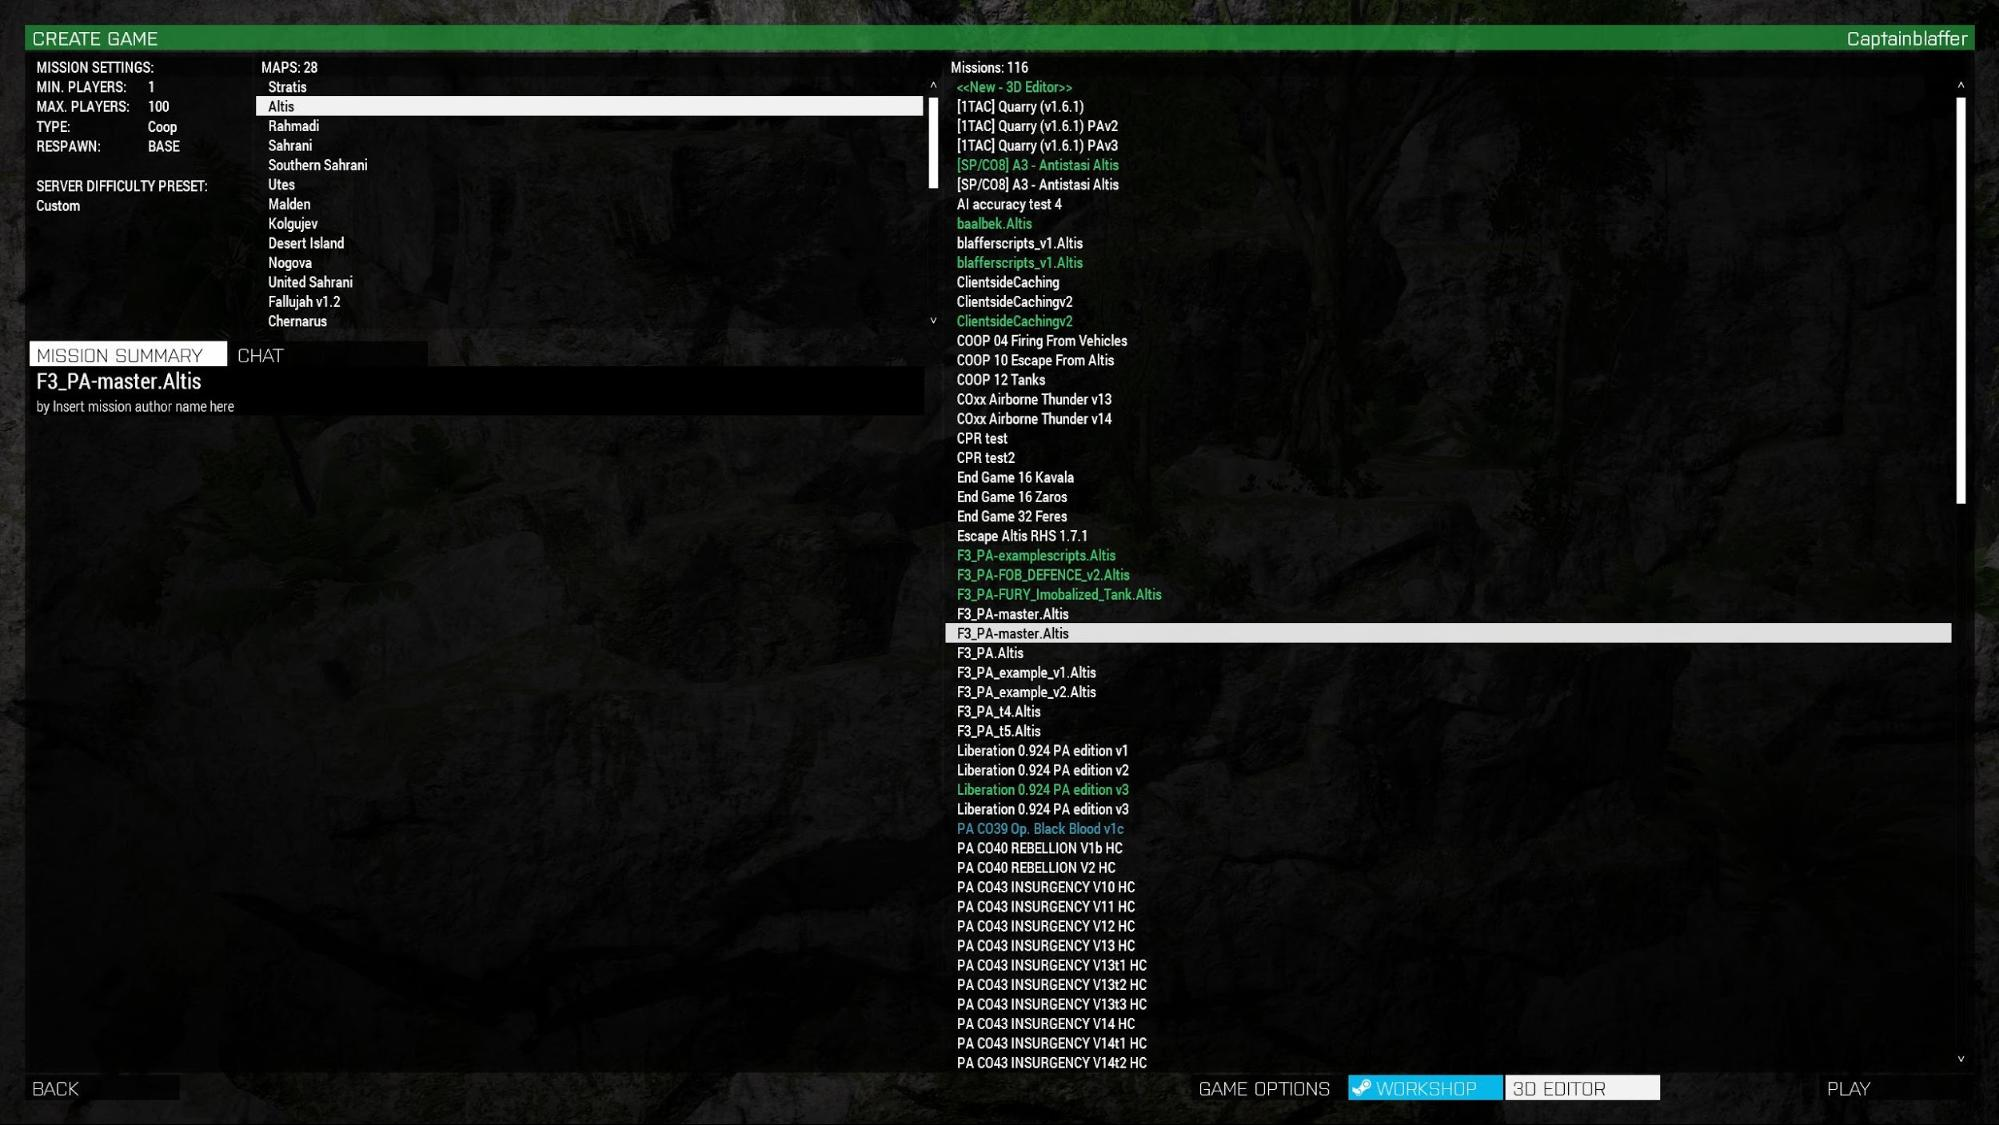
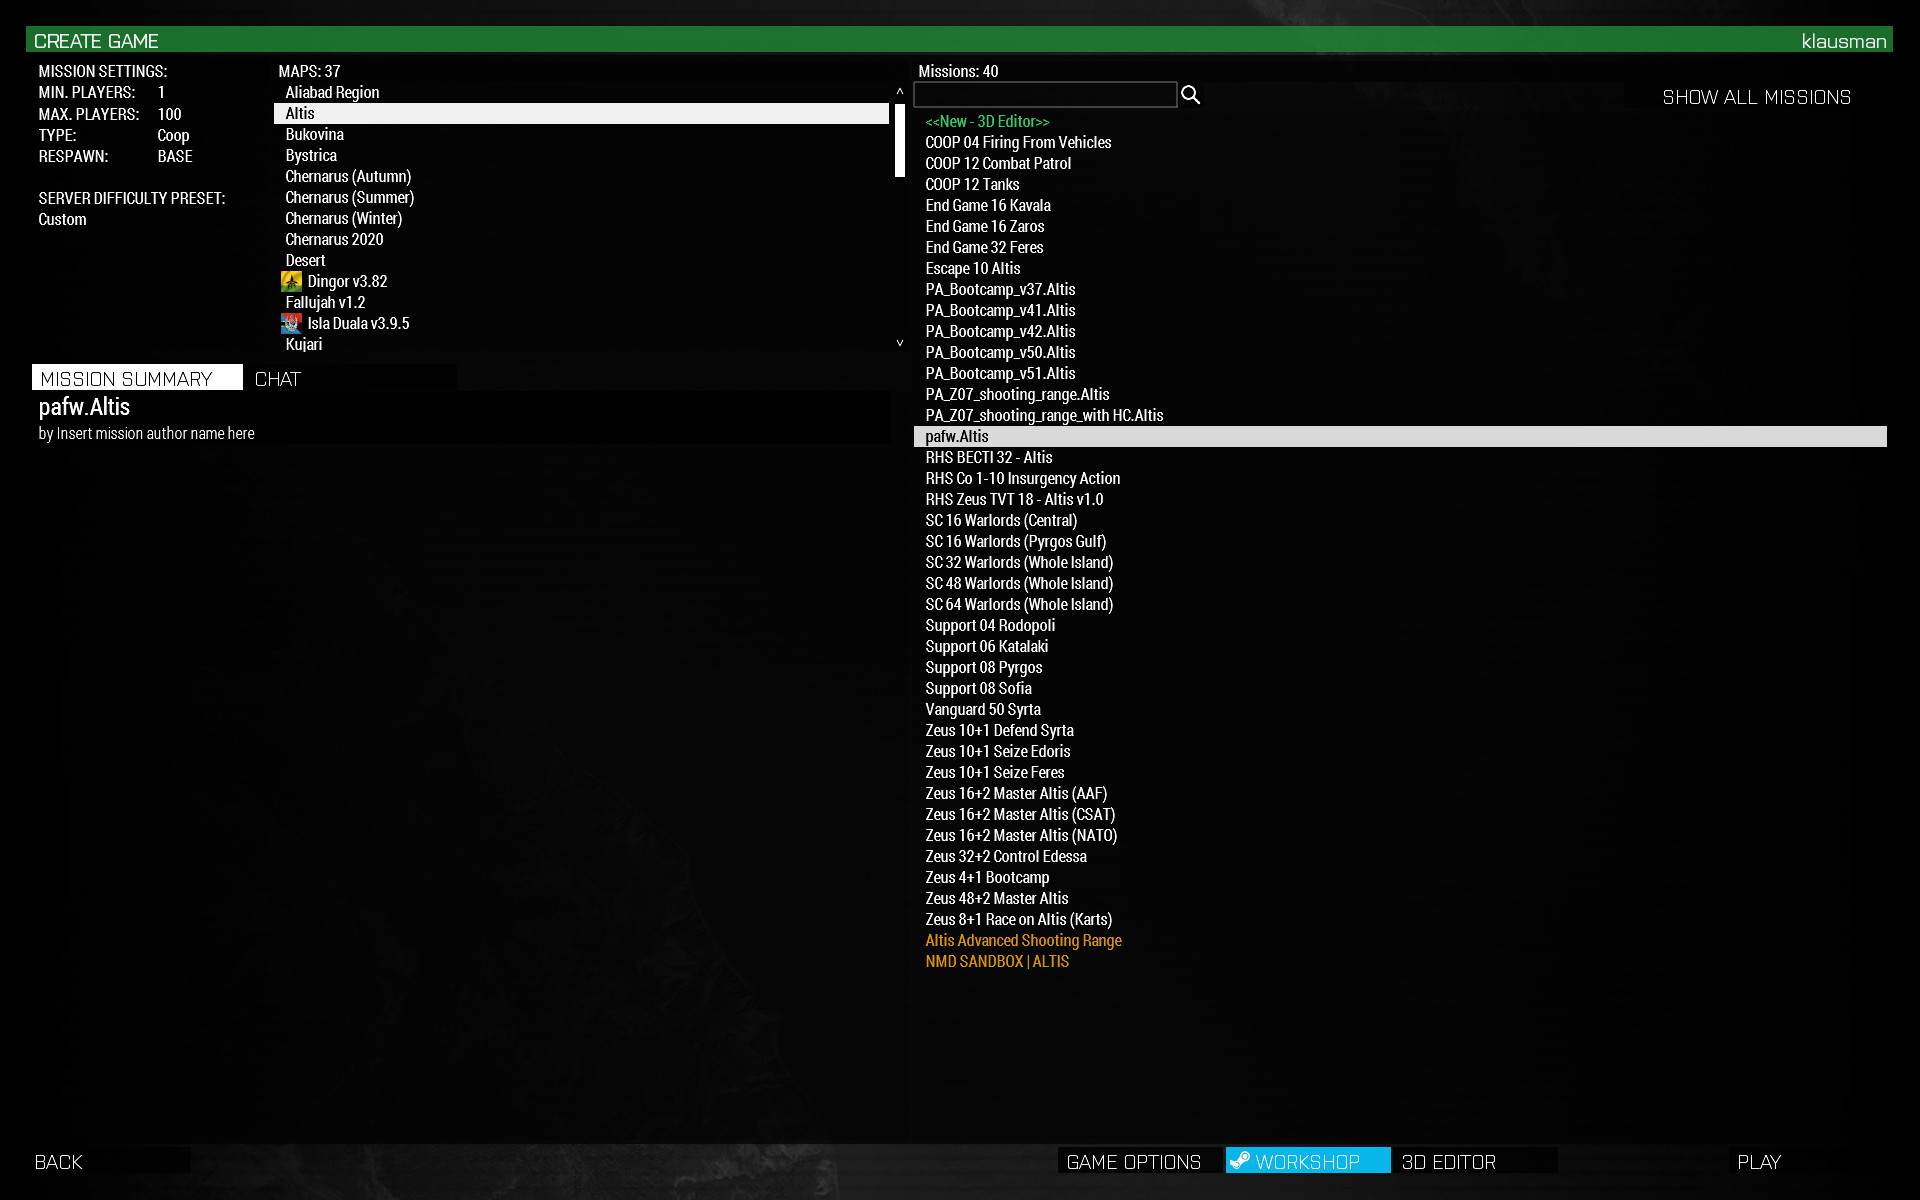
Updates!

diff --git a/content/mission_making/guide/index.md b/content/mission_making/guide/index.md
@@ -18,13 +18,14 @@ Below I will guide you step by step how to make your first mission.
 
 ## Download, unpack and set up the Example Mission and Extra Scripts
 
-1. Download the [F3\_PA framework](https://github.com/captainblaffer/F3_PA)
-   (https://github.com/captainblaffer/F3\_PA)<br/><img src="image7.png"/>
+1. Download the [PA framework](https://github.com/klausman/pafw/releases)
+   (https://github.com/klausman/pafw/releases)<br/><img src="image7.png"/>
 2. Place downloaded folders in A3 missions folder. </p> Open A3 missions
    folder in explorer. The file path will look something like this:
-   `C:\Users\klausman\Documents\Arma 3\oldmissions`<br/>
+   `C:\Users\klausman\Documents\Arma 3\mpmissions`<br/>
    *Note:* If the folder MPMissions does not exist, create it.<br/>
-   Unzip and place the downloaded folders in the MPMissions folder:
+   The ZIP will contain a folder named `pafw-0.0.1.zip` or similar. Unpack
+   it to the `mpmissions` folder and rename it to `pafw.Altis`:
    <img src="image6.png"/>
 3. Open the A3 mission editor.<br/>
    Start A3 with all of PA’s addons enabled. Then navigate yourself to the
@@ -32,14 +33,10 @@ Below I will guide you step by step how to make your first mission.
    LAN:<br/>
    <img src="image2.png"/><br/>
    In the next menu, find the framework missions by selecting Altis as map,
-   and then selecting *F3-PA-Master.Altis* in green color. Now press the ‘3D
+   and then selecting *pafw.Altis* in green color. Now press the ‘3D
    Editor’ button on bottom right. You will now load the framework mission
    into the A3 Editor.<br/>
    <img src="image5.jpg"/><br/>
-   Note: If you want to read up details on the F3 framework, here is our copy 
-   of their (now defunct) Official wiki:<br/>
-   But note the `F3_PA` framework is different from the official framework,
-   some features will function differently from how described on that wiki.<br/>
 
 ## Defining mission rules
 
@@ -50,7 +47,7 @@ map (Altis, Stratis etc.) you prefer.
 
 To create a new mission:
 
-1. While `F3_PA-master.Altis` mission is loaded in the editor, drag your mouse
+1. While `pafw.Altis` mission is loaded in the editor, drag your mouse
    over all the objects placed down in the mission so you select them all at
    the same time. It should include modules, markers, units and vehicles.
 2. Press CTRL+C on keyboard to copy.
@@ -59,23 +56,23 @@ To create a new mission:
 4. In your new, empty mission press CTRL+V to paste the previously copied
    objects. Note the objects may be in some weird spot in the corner of the
    map.
-5. In windows explorer, open the folder `F3\_PA-master.Altis.` Select all files
+5. In windows explorer, open the folder `pafw.Altis.` Select all files
    in that folder except for `mission.sqm`, and copy the files (CTRL+C)
 6. In windows explorer open the folder of your new mission, found somewhere in
    `\Documents\Arma 3\mpmissions`
 
 Paste the copied files (CTRL+V). Remember do not overwrite `mission.sqm`.
 
-You have now created a new mission which contains all the F3\_PA features,
+You have now created a new mission which contains all the PAFW features,
 settings, and pre-placed assets. Let’s continue to work on this mission from
-now on, so you can keep the F3\_PA-master.Altis mission unchanged and ready to
+now on, so you can keep the pafw.Altis mission unchanged and ready to
 be used for future missions.
 
 ## Mission rules & info are defined in several places
 
 1. Modules placed in the 3d editor
-2. `Init.sqf` (found in `\Documents\\Arma 3 \MPMissions\missionname.mapname`)
-3. `Description.ext` (same folder)
+2. `init.sqf` (found in `\Documents\Arma 3 \MPMissions\missionname.mapname`)
+3. `description.ext` (same folder)
 4. Slotting Screen Parameters
 5. In the editor: Settings > Addon Options
 
@@ -94,14 +91,14 @@ emit warnings about their deprecation. When in doubt, ask in
 
 ### `init.sqf`
 
-In `init.sqf` you can enable or disable certain F3 features, or tweak the
+In `init.sqf` you can enable or disable certain PAFW features, or tweak the
 values. You open this file with any text editor. I recommend
 [notepad++](https://notepad-plus-plus.org/download/v7.3.3.html) and getting the
 [SQF syntax highlighting](http://www.armaholic.com/page.php?id=8680) ‘addon’
 
 The commented text above each block of code should explain what it does.
 
-E.g. you can disable `f_safeStart` by commenting out (`//`) line 153.
+E.g. you can disable `f_safeStart` by commenting out (`//`) line 62.
 
 <img src="image3.png"/>
 
@@ -120,10 +117,8 @@ making an updated version of your mission always update this name.
 
 Parameters are mission settings that can be tweaked in the slotting screen, by
 pressing ‘parameters’ button at the top. These parameters are defined in
-`description.ext`, starting at line 151. You may tweak the default params as
-you desire, or activate certain F3 features like `f_param_weather.` Uncomment
-the code block to enable weather parameters, allowing the admin to customize
-weather & time of day.
+`description.ext`, starting at line 114. You may tweak the default params as
+you desire, or activate features.
 
 A few more notes on specific features:
 
@@ -133,19 +128,16 @@ enabled per default.
 You can turn it off in-game by opening the map screen and clicking ‘admin’
 under ‘briefing’.
 
-You can turn safe start off in init.sqf by commenting out line 153: `[] execVM
+You can turn safe start off in init.sqf by commenting out line 62: `[] execVM
 "f\safeStart\f\_safeStart.sqf";`
 
 **JIP** aka join in progress allows players who join post mission start to
-teleport to their squadmates. You can tweak the settings in init.sqf line 193:
-`// F3 - JIP setup (PA version)`
+teleport to their squadmates. You can tweak the settings in init.sqf line 68:
+`// SETTING: JIP setup (PA version)`
 
-If you wish to change the time of day or the weather, make sure the ToD &
-Weather parameter feature is not active, because that will overwrite your
-default settings.
-
-You can set the default settings in the 3d editor, go to toolbar, and click
-Attributes > Environment.
+If you wish to change the time of day or the weather, that is best done in the
+mission editor: in the 3d editor, go to toolbar, and click Attributes >
+Environment.
 
 Tip: For night time missions, check if the moon is visible, because if
 it isn’t, it will be almost pitch black (not fun without NVGs!)
@@ -157,8 +149,8 @@ mods, without everyone reinventing the wheel and settings being all over the
 place. This is especially useful for mods like ACE that have well over a
 hundred settings that players and units can tweak. As of mid-2019, most modern
 mods use CBA settings, so you should definitely go through the settings to
-familiarize yourself with the basic setup. Note that some settings are enforced
-on the server and can't be changed by players or mission makers.
+familiarize yourself with the basic setup. Note that some settings are
+enforced on the server and can't be changed by players or mission makers.
 
 The [CBA site](https://github.com/CBATeam/CBA_A3/wiki/CBA-Settings-System) has
 a good overview of how the basic Client/Mission/Server settings and overrides
@@ -186,7 +178,7 @@ Now pay attention, here follows an important rule:
 **IMPORTANT:** *Only use the factions NATO, CSAT, AAF, FIA.* Let me explain. In
 arma we have sides & factions. Sides are obvious (BLUFOR, OPFOR, Independent,
 Civilian). Factions are sub-groups within a side: NATO is a faction within
-BLUFOR. F3\_PA uses factions to figure out who is who. The only factions that
+BLUFOR. PAFW uses factions to figure out who is who. The only factions that
 are defined per default are the 4 I just mentioned, so unless you are an
 advanced user, only use these factions for ANY units (exception are vehicles,
 of course). We will use the `assignGear` script to change the default A3 NATO
@@ -202,7 +194,7 @@ Double click any pre-placed NATO soldier to open its attributes.
 
 - Variable name(e.g. `UnitNATO_A2_AT`): Name that the script code
   can use to find this unit. Not required to set this, except for
-  the medics. Medics require a specific name for the F3 specialist
+  the medics. Medics require a specific name for the specialist
   marker feature to work. E.g. `UnitNATO_CO_M.` You can find or
   change the names in
   `missionname.mapname\f\groupMarkers\f\_setLocalGroupMarkers.sqf`
@@ -211,7 +203,7 @@ Double click any pre-placed NATO soldier to open its attributes.
 
   `GrpNATO_ASL = group this; ["rat",this] call f_fnc_assignGear;`
 
-  The first part (`GrpNATO_ASL = group this;`) is required for the F3 group
+  The first part (`GrpNATO_ASL = group this;`) is required for the group
   markers feature. All units within one group must have the same name defined
   here. You can find or change all names in
   `missionname.mapname\f\groupMarkers\f\setLocalGroupMarkers.sqf`
@@ -233,9 +225,9 @@ Double click any pre-placed NATO soldier to open its attributes.
     units appear on the top of the list. Tweaking the unit order in
     slotting screen is very annoying, I recommend to just not bother.
 
-Besides units, F3 also interacts with ammo crates and vehicles. In an ammo
-crate or vehicle, add this code in its init to fill the crate with the right
-gear & ammo types for your custom loadouts.
+Besides units, classic assignGear also interacts with ammo crates and
+vehicles. In an ammo crate or vehicle, add this code in its init to fill the
+crate with the right gear & ammo types for your custom loadouts.
 
 `["crate_med", this, "blu_f"] call f_fnc_assignGear`
 
@@ -331,10 +323,10 @@ Backpack inventories work quite the same as defining loadout inventories. But
 it's in a different file. Open file: `f_assignGear_nato_b.sqf`
 
 The first you’ll notice is the `_loadout == 0, == 1, ==2` stuff. All backpack
-inventories are defined 3 times to support the F3 feature customize-able
-backpack sizes. In PA we literally never use this, so if you want to change
-backpack inventories I recommend only changing everything under `_loadout ==
-1` the default backpack size.
+inventories are defined 3 times to support the customize-able backpack sizes.
+In PA we literally never use this, so if you want to change backpack
+inventories I recommend only changing everything under `_loadout == 1` the
+default backpack size.
 
 Changing the inventory should be quite easy, just note the functions used are
 different. You can’t directly copy paste code from `f_assignGear_nato.sqf` to
@@ -343,6 +335,10 @@ different. You can’t directly copy paste code from `f_assignGear_nato.sqf` to
 Remember to save the files when done editing!
 
 ## Placing AI opponents
+
+<span style="color: red;">*Note:* This section is out of date while we bring
+the extra functionality up to speed with code changes (and quality) with the
+main framework</span>
 
 Editor placed AI might appear to be the ‘default’ or ‘normal’ way of placing
 your AI opponents, but it is actually the worst thing you can do. Too many AI

diff --git a/content/mission_making/_index.md b/content/mission_making/_index.md
@@ -3,15 +3,15 @@ title: Mission Making
 weight: 3
 ---
 
-- [PA Mission Making for Arma](mission_making/guide)
-- [Mission making checklist](mission_making/checklist)
-- [Adding a dedicated Zeus slot](mission_making/dedicated_zeus)
-- [Murk Howto](mission_making/murk)
+- [PA Mission Making for Arma](guide/)
+- [Mission making checklist](checklist/)
+- [Adding a dedicated Zeus slot](dedicated_zeus/)
+- [Murk Howto](murk/)
 - [A primer for `assignGear`](assigngear_primer/)
 - [A simpler approach to using `assignGear`](simpler_assigngear/)
 - [Fixing missions with spurious mod dependencies](mission_depfix/)
-- [TFAR Guide for mission making](mission_making/tfar)
+- [TFAR Guide for mission making](tfar/)
 - [Custom airdrops for Simplex Support Services](sss_custom_airdrop/)
-- [Reddit Post Template and Guide](reddit_post) for the Reddit signup post
+- [Reddit Post Template and Guide](reddit_post/)
 - [Leopard 2 camo retextures](leo2_retex/)
-- [Managing CBA settings between server and mission](mission_making/cba_settings)
+- [Managing CBA settings between server and mission](cba_settings/)
